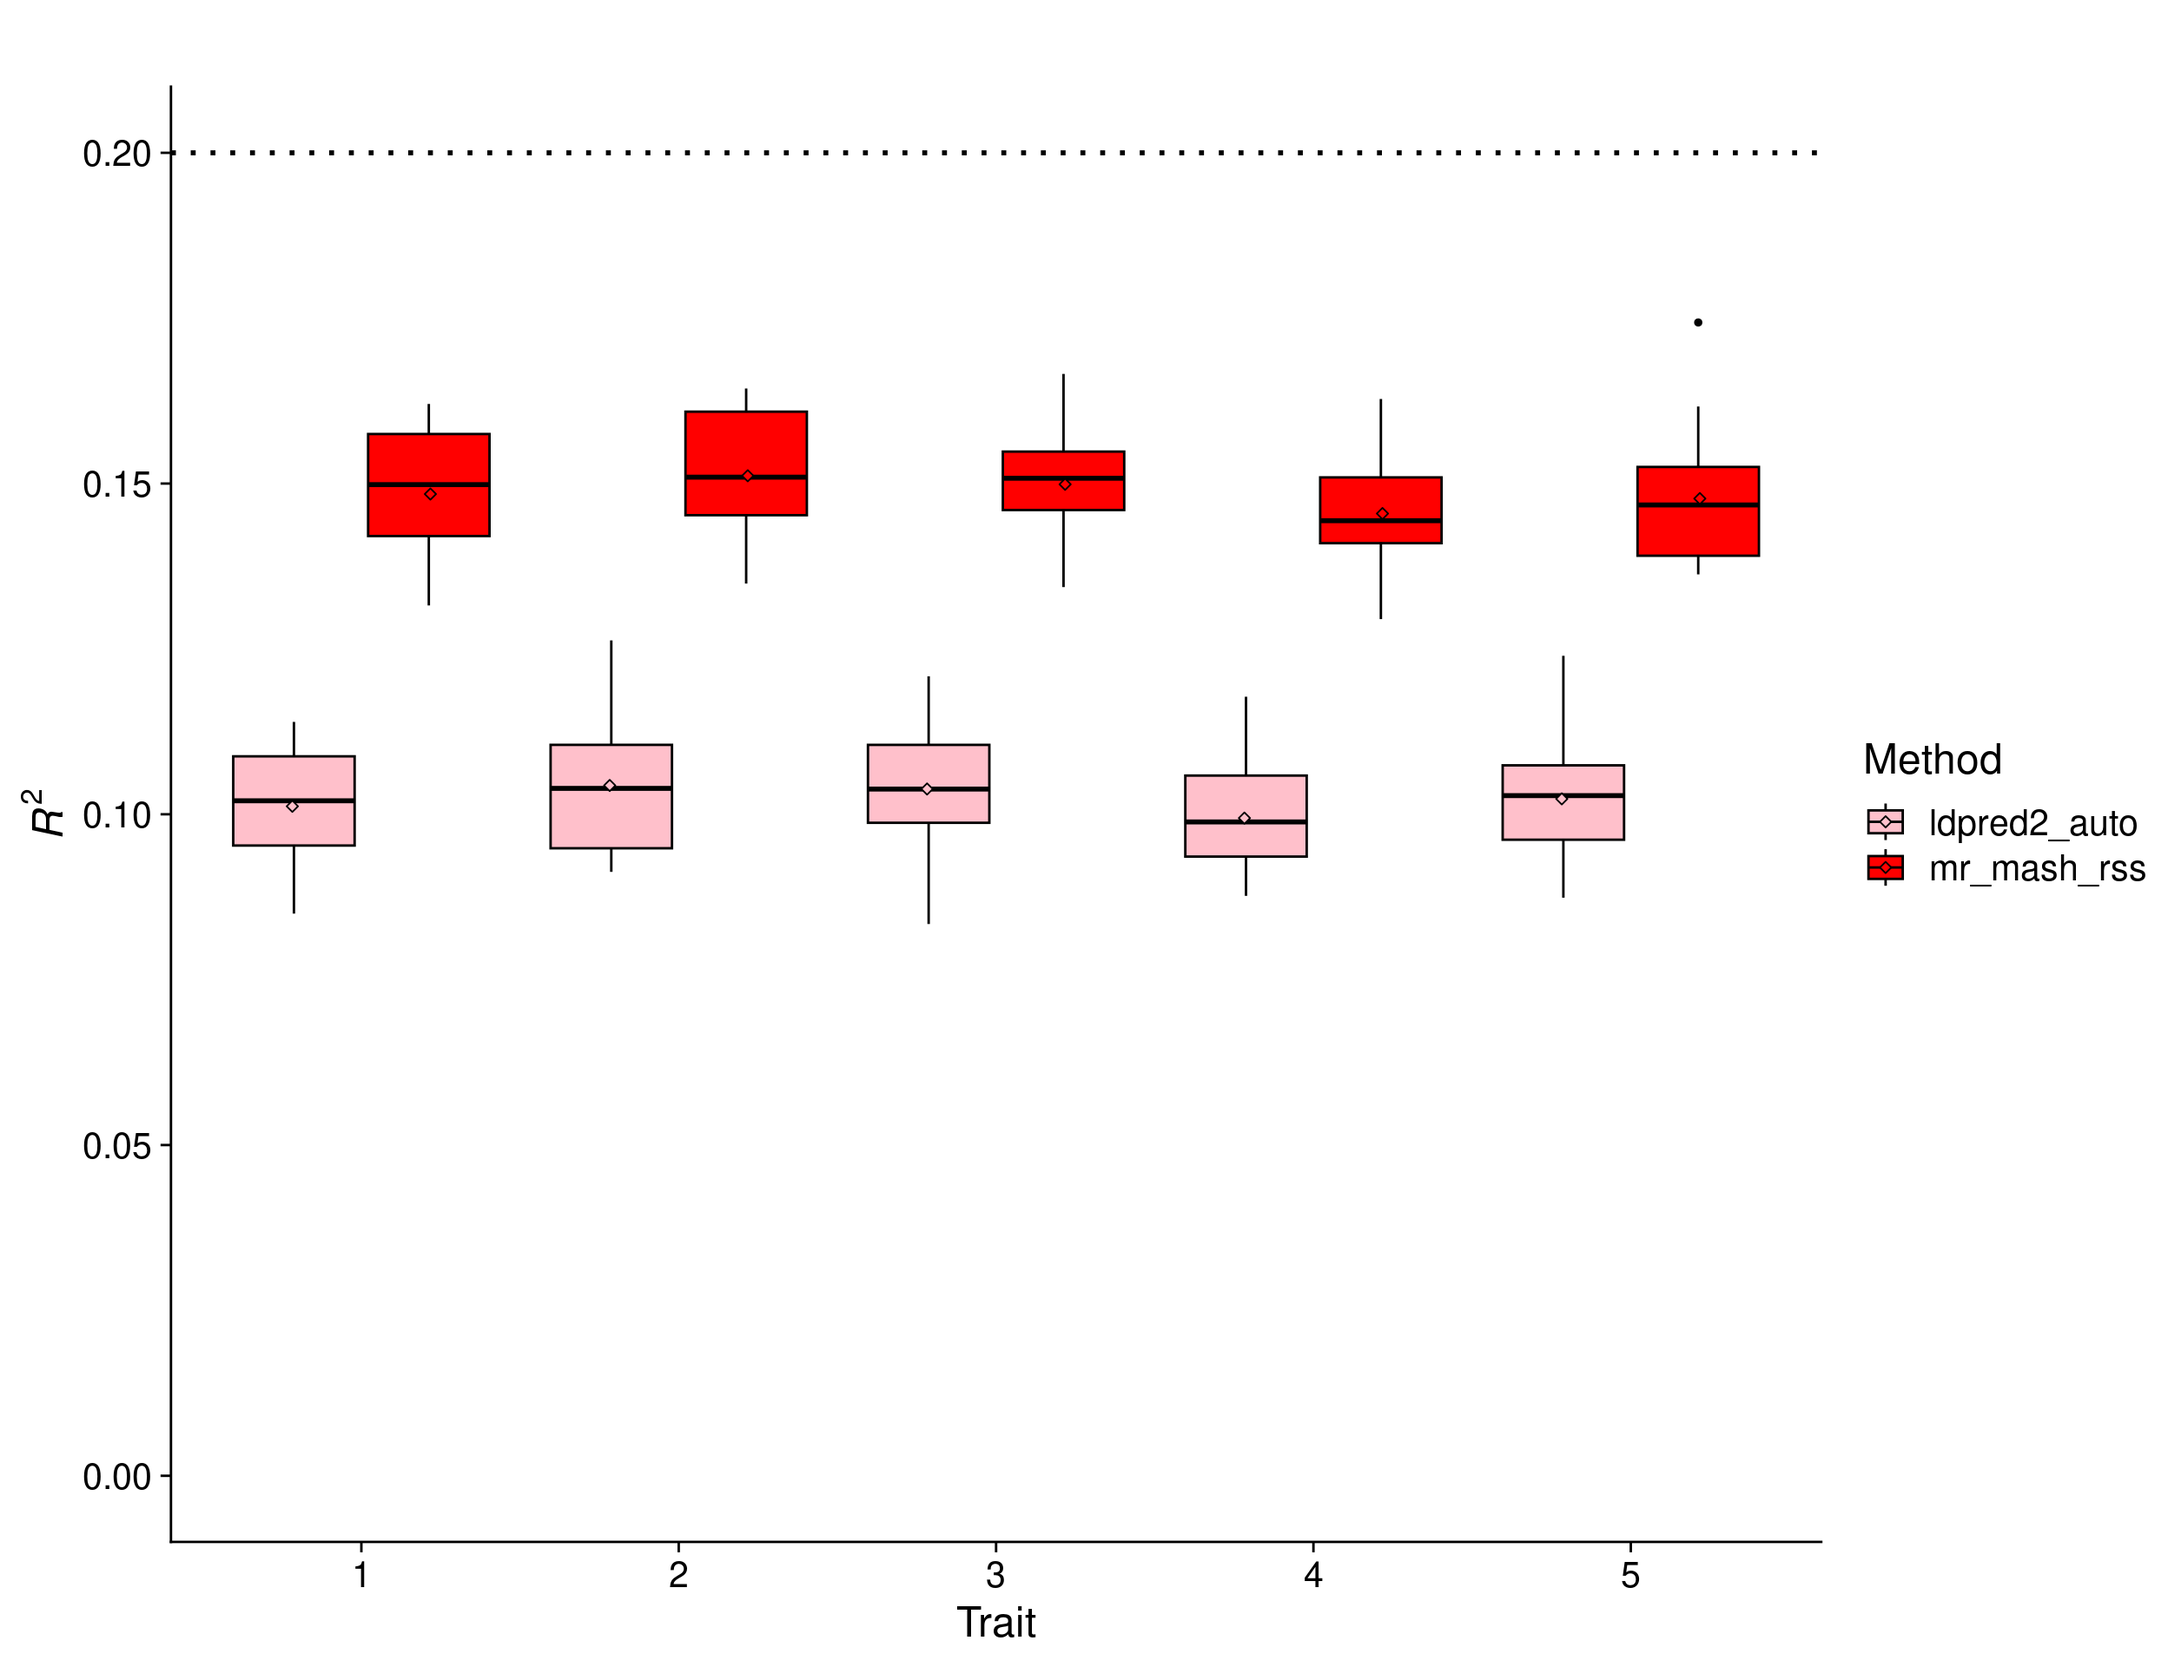
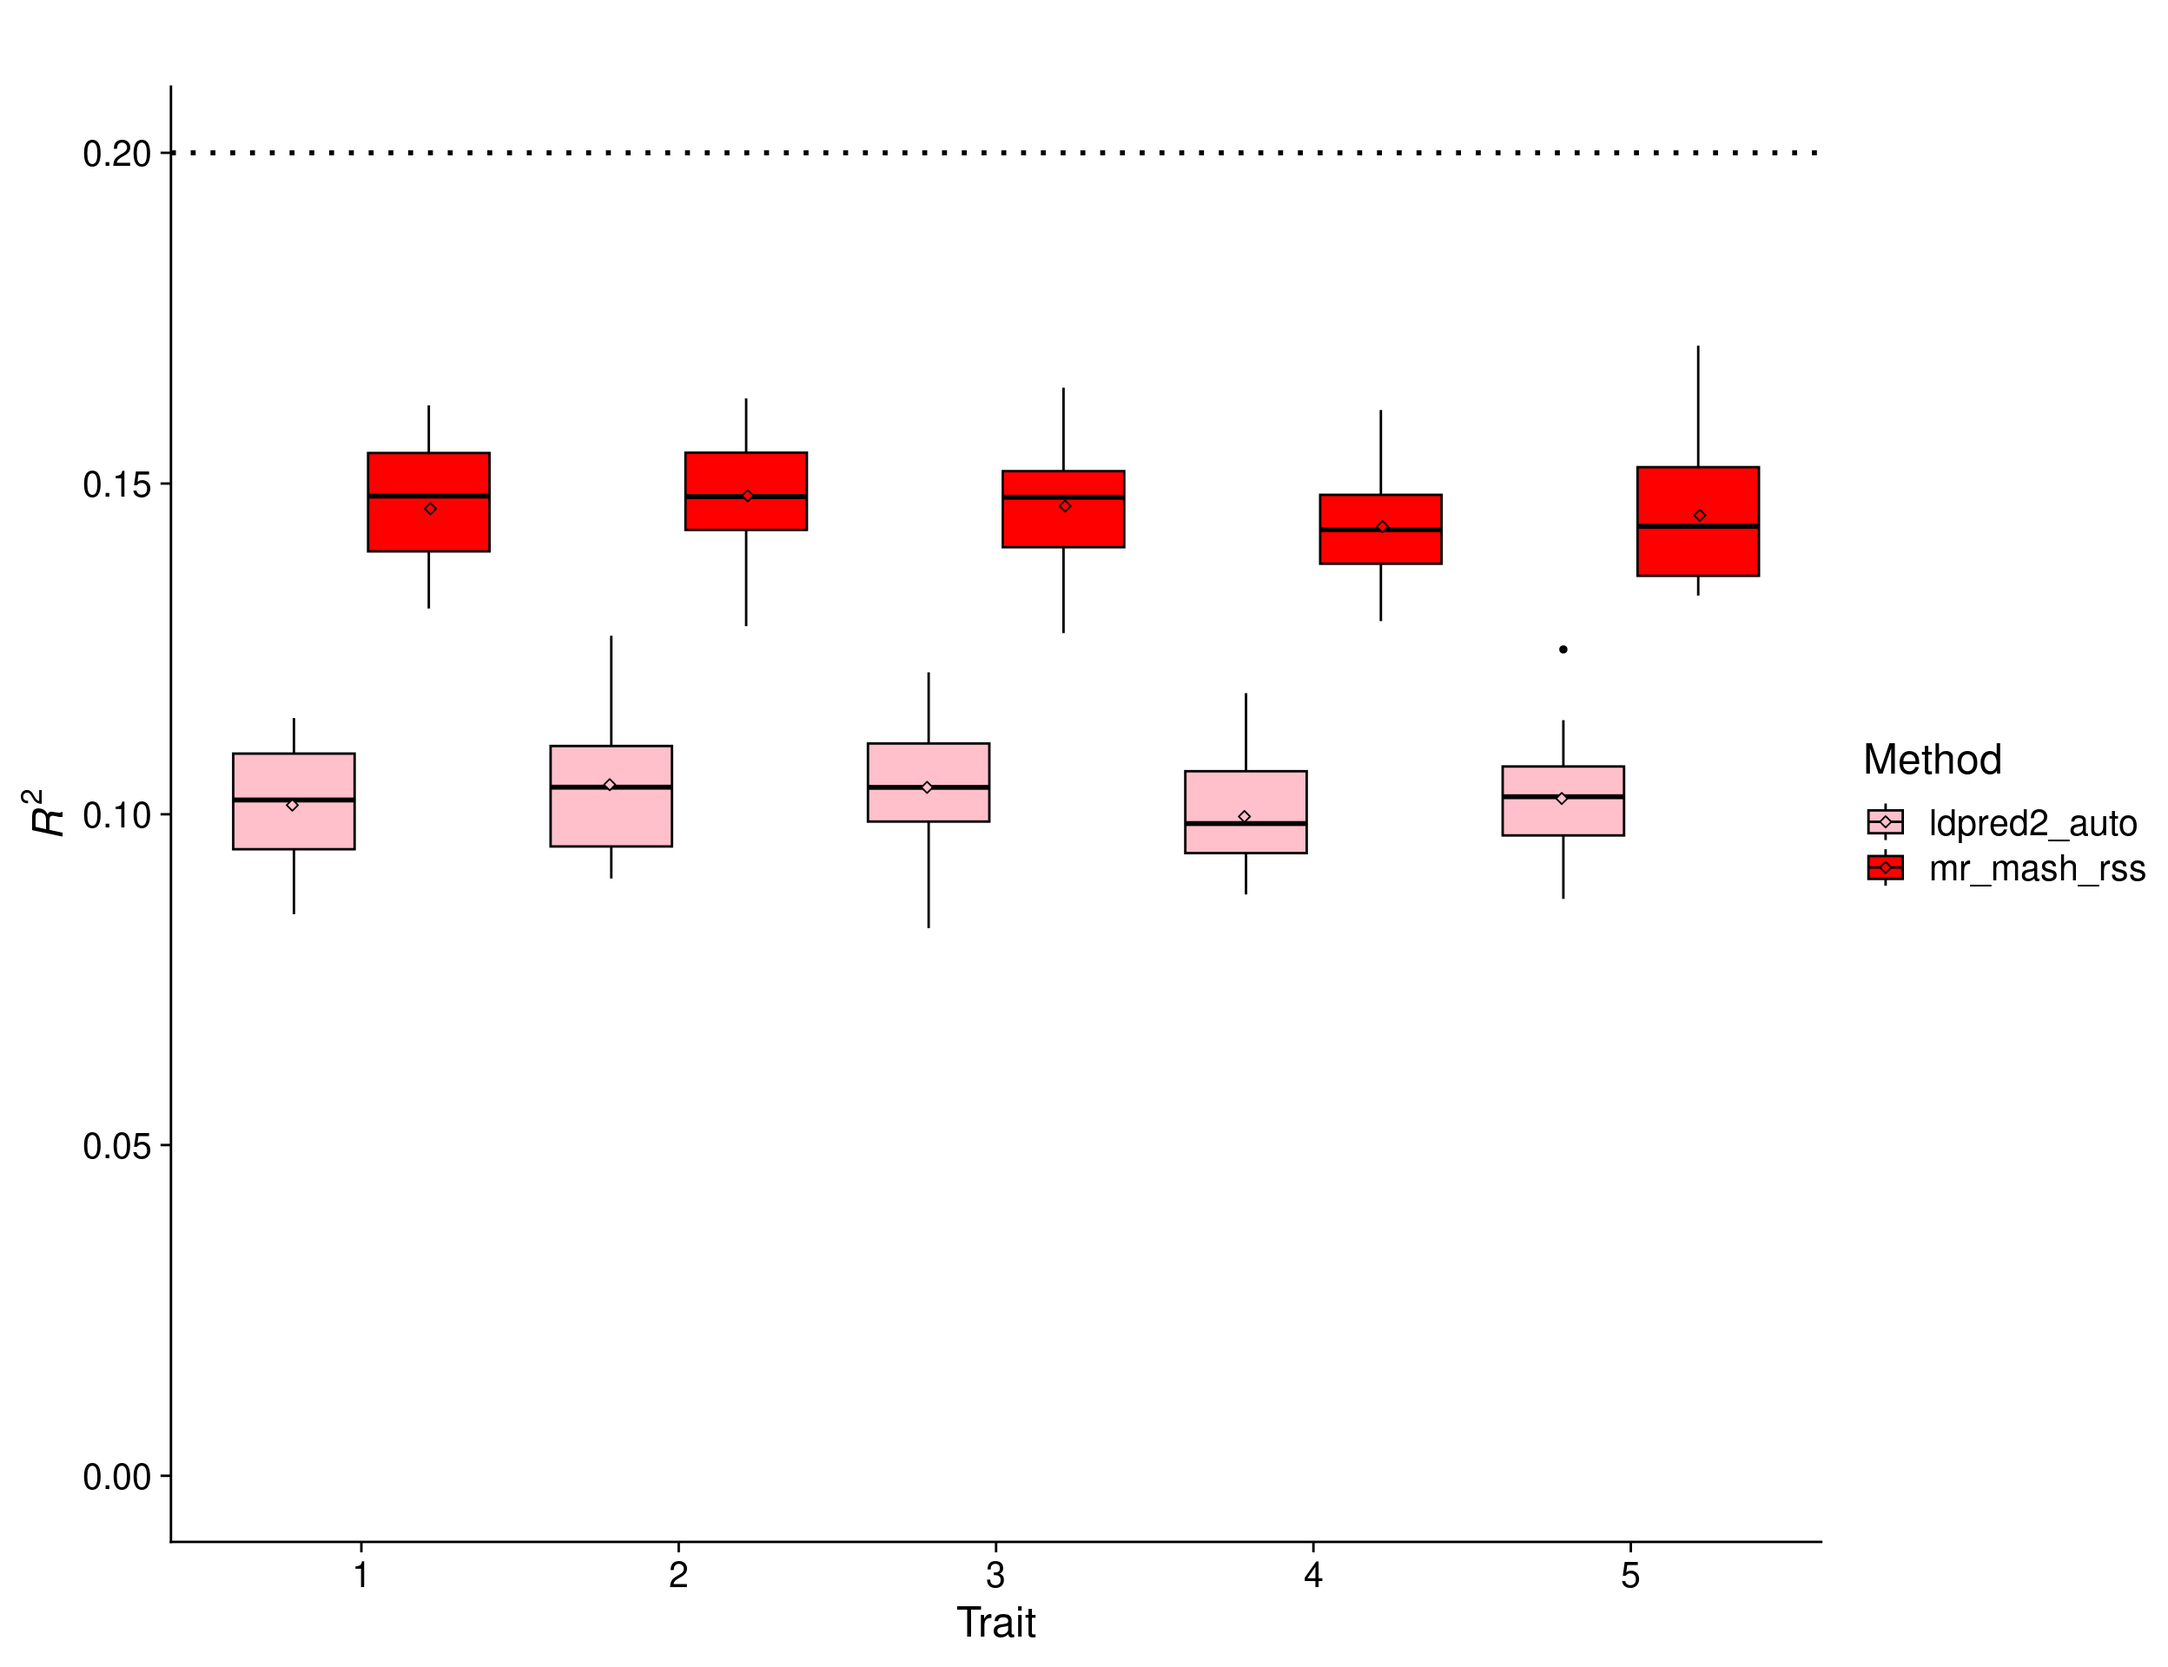
Build site.

diff --git a/docs/ukb_sim_results.html b/docs/ukb_sim_results.html
@@ -11,7 +11,7 @@
 
 <meta name="author" content="Fabio Morgante &amp; Deborah Kunkel" />
 
-<meta name="date" content="2023-10-21" />
+<meta name="date" content="2023-10-26" />
 
 <title>Simulations with UK Biobank genotypes and different effect structure across traits</title>
 
@@ -374,7 +374,7 @@ div.tocify {
 <h1 class="title toc-ignore">Simulations with UK Biobank genotypes and
 different effect structure across traits</h1>
 <h4 class="author">Fabio Morgante &amp; Deborah Kunkel</h4>
-<h4 class="date">October 21, 2023</h4>
+<h4 class="date">October 26, 2023</h4>
 
 </div>
 
@@ -403,7 +403,7 @@ class="glyphicon glyphicon-ok text-success" aria-hidden="true"></span>
 <div class="tab-content">
 <div id="summary" class="tab-pane fade in active">
 <p>
-<strong>Last updated:</strong> 2023-10-21
+<strong>Last updated:</strong> 2023-10-26
 </p>
 <p>
 <strong>Checks:</strong> <span
@@ -534,15 +534,15 @@ project makes it easier to run your code on other machines.</p>
 <div class="panel panel-default">
 <div class="panel-heading">
 <p class="panel-title">
-<a data-toggle="collapse" data-parent="#workflowr-checks" href="#strongRepositoryversionstrongahrefhttpsgithubcommorgantelabmrmashrssanalysistreee0b7f14c1dba635136ac5c40304c624e87f57a11targetblanke0b7f14a">
+<a data-toggle="collapse" data-parent="#workflowr-checks" href="#strongRepositoryversionstrongahrefhttpsgithubcommorgantelabmrmashrssanalysistree63600cd48918ef6a226d680b9194b8fa32bfe463targetblank63600cda">
 <span class="glyphicon glyphicon-ok text-success"
 aria-hidden="true"></span> <strong>Repository version:</strong>
-<a href="https://github.com/morgantelab/mr_mash_rss_analysis/tree/e0b7f14c1dba635136ac5c40304c624e87f57a11" target="_blank">e0b7f14</a>
+<a href="https://github.com/morgantelab/mr_mash_rss_analysis/tree/63600cd48918ef6a226d680b9194b8fa32bfe463" target="_blank">63600cd</a>
 </a>
 </p>
 </div>
 <div
[2 lines of base64/hex data omitted]
 class="panel-collapse collapse">
 <div class="panel-body">
 <p>
@@ -552,7 +552,7 @@ reproducibility.
 </p>
 <p>
 The results in this page were generated with repository version
-<a href="https://github.com/morgantelab/mr_mash_rss_analysis/tree/e0b7f14c1dba635136ac5c40304c624e87f57a11" target="_blank">e0b7f14</a>.
+<a href="https://github.com/morgantelab/mr_mash_rss_analysis/tree/63600cd48918ef6a226d680b9194b8fa32bfe463" target="_blank">63600cd</a>.
 See the <em>Past versions</em> tab to see a history of the changes made
 to the R Markdown and HTML files.
 </p>
@@ -593,7 +593,6 @@ Untracked files:
     Untracked:  scripts/run_fit_kriging_rss_by_chr_and_trait_bc_ukb.sbatch
 
 Unstaged changes:
-    Modified:   code/compute_prediction_accuracy_bc_ukb.R
     Modified:   ukb_sim_snakemake_submitter.sh
 
 </code></pre>
@@ -640,6 +639,40 @@ Message
 </tr>
 </thead>
 <tbody>
+<tr>
+<td>
+Rmd
+</td>
+<td>
+<a href="https://github.com/morgantelab/mr_mash_rss_analysis/blob/63600cd48918ef6a226d680b9194b8fa32bfe463/analysis/ukb_sim_results.Rmd" target="_blank">63600cd</a>
+</td>
+<td>
+fmorgante
+</td>
+<td>
+2023-10-26
+</td>
+<td>
+Update general description and low PVE results
+</td>
+</tr>
+<tr>
+<td>
+html
+</td>
+<td>
+<a href="https://rawcdn.githack.com/morgantelab/mr_mash_rss_analysis/c77ab8f96831d751273d44f0e2d00883f6185106/docs/ukb_sim_results.html" target="_blank">c77ab8f</a>
+</td>
+<td>
+fmorgante
+</td>
+<td>
+2023-10-21
+</td>
+<td>
+Build site.
+</td>
+</tr>
 <tr>
 <td>
 html
@@ -1482,7 +1515,8 @@ below). The genetic effects explain 50% of the total per-trait variance
 (except for two scenario as explained below) – in genetics terminology
 this is called genomic heritability (<span
 class="math inline">\(h_g^2\)</span>). The residuals are uncorrelated
-across traits.</p>
+across traits. Each trait was quantile normalized before all the
+analyses were performed.</p>
 <p>We randomly sampled 5,000 (out of the 105,000) individuals to be the
 test set. The test set was only used to evaluate prediction accuracy.
 All the other steps were carried out on the training set of 100,000
@@ -1494,18 +1528,17 @@ variant, one at a time. Traits and variants were not standardized.</p>
 <ul>
 <li><a
 href="https://academic.oup.com/bioinformatics/article/36/22-23/5424/6039173">LDpred2</a>
-per-chromosome with the auto option, 500 iterations (after 500 burn-in
-iterations), <span class="math inline">\(h^2\)</span> initialized as
-0.5/22 and <span class="math inline">\(p\)</span> initialized using the
-same grid as in the original paper. NB this is a univariate method.</li>
-<li><em>LDpred2</em> genome-wide with the auto option, 500 iterations
-(after 500 burn-in iterations), <span class="math inline">\(h^2\)</span>
-initialized as 0.5/22 (WRONG) and <span class="math inline">\(p\)</span>
-initialized using the same grid as in the original paper. NB this is a
-univariate method.</li>
+per-chromosome with the auto option, 1000 iterations (after 500 burn-in
+iterations), <span class="math inline">\(h^2\)</span> initialized using
+an estimate from LD Score regression (LDSC) and <span
+class="math inline">\(p\)</span> initialized using the same grid as in
+the original paper. NB this is a univariate method.
+<!-- * _LDpred2_ genome-wide with the auto option, 500 iterations (after 500 burn-in iterations), $h^2$  -->
+<!-- initialized as 0.5/22 (WRONG) and $p$ initialized using the same grid as in the original paper. -->
+<!-- NB this is a univariate method. --></li>
 <li><em>mr.mash.rss</em> per-chromosome, with both canonical and
 data-driven covariance matrices computed as described in the <a
-href="https://www.biorxiv.org/content/10.1101/2022.11.22.517471v4.abstract">mr.mash
+href="https://www.biorxiv.org/content/10.1101/2023.04.14.536893v1">mvSuSiE
 paper</a>, updating the (full rank) residual covariance and the mixture
 weights, without standardizing the variables. The residual covariance
 was initialized as in the <a
@@ -1514,13 +1547,10 @@ paper</a> and the mixture weights were initialized as 90% of the weight
 on the null component and 10% of the weight split equally across the
 remaining components. The phenotypic covariance was computed as the
 sample covariance using the individual-level data. NB this is a
-multivariate method.</li>
-<li><a
-href="https://www.nature.com/articles/s41467-019-12653-0">BayesR</a>
-per-chromosome, with 1000 iterations (after 500 burn-in iterations),
-<span class="math inline">\(h^2\)</span> initialized as 0.5/22 and other
-default parameters. NB this is a univariate method. We used the
-implementation in the <em>qgg</em> R package.</li>
+multivariate method.
+<!-- * [BayesR](https://www.nature.com/articles/s41467-019-12653-0) per-chromosome, with 1000 iterations  -->
+<!-- (after 500 burn-in iterations), $h^2$ initialized as 0.5/22 and other default parameters. NB this is  -->
+<!-- a univariate method. We used the implementation in the *qgg* R package. --></li>
 </ul>
 <p>Prediction accuracy was evaluated as the <span
 class="math inline">\(R^2\)</span> of the regression of true phenotypes
@@ -1678,13 +1708,7 @@ methods. In fact, given that the effects are equal across traits and the
 residuals are uncorrelated, a multivariate analysis is roughly
 equivalent to having 5 times as many samples as in an univariate
 analysis. The results show that <em>mr.mash.rss</em> clearly does better
-than both flavors of <em>LDpred2 auto</em>. However, in this simulation
-there does not seem to be much of a difference between <em>LDpred2
-auto</em> per-chromosome and genome-wide. Therefore, we will drop
-<em>LDpred2 auto</em> genome-wide from further analyses since it is more
-computationally intensive. <em>BayesR</em> gives unreasonably low
-prediction accuracy, which hints at issues with the default parameters
-and/or this particular implementation.</p>
+than <em>LDpred2 auto</em>.</p>
 </div>
 <div id="mostly-null-scenario" class="section level2">
 <h2>Mostly null scenario</h2>
@@ -1762,6 +1786,17 @@ Date
 <tbody>
 <tr>
 <td>
+<a href="https://github.com/morgantelab/mr_mash_rss_analysis/blob/c77ab8f96831d751273d44f0e2d00883f6185106/docs/figure/ukb_sim_results.Rmd/mostly null-1.png" target="_blank">c77ab8f</a>
+</td>
+<td>
+fmorgante
+</td>
+<td>
+2023-10-21
+</td>
+</tr>
+<tr>
+<td>
 <a href="https://github.com/morgantelab/mr_mash_rss_analysis/blob/e8a2096ed6bf57d125d0f9a54830833f55a4da4d/docs/figure/ukb_sim_results.Rmd/mostly null-1.png" target="_blank">e8a2096</a>
 </td>
 <td>
@@ -1822,12 +1857,9 @@ fmorgante
 <p>In this scenario, there is no advantage to using multivariate
 methods. In fact, there is potential for multivariate methods to do
 worse than univariate methods because of the large amount of noise
-modeled jointly with the signal. However, the results show that
-<em>mr.mash.rss</em> can learn this structure from the data and,
-reassuringly, performs similarly to <em>LDpred2 auto</em>. Again,
-**BayesR* gives unreasonably low prediction accuracy, which hints at
-issues with the default parameters and/or this particular
-implementation.</p>
+modeled jointly with the signal. The results show that
+<em>mr.mash.rss</em> can learn this structure from the data and performs
+similar to <em>LDpred2 auto</em>, although a little worse.</p>
 </div>
 <div id="shared-in-subgroups-scenario" class="section level2">
 <h2>Shared in subgroups scenario</h2>
@@ -2011,9 +2043,7 @@ does better than <em>LDpred2 auto</em> across all the traits. However,
 the improvement is more evident in traits 1-3, due to the higher effect
 correlation across traits, the larger number of traits with shared
 effects, and the smaller <span class="math inline">\(h^2_g\)</span>
-(harder scenario for univariate methods). Again, <em>BayesR</em> gives
-unreasonably low prediction accuracy, which hints at issues with the
-default parameters and/or this particular implementation.</p>
+(harder scenario for univariate methods).</p>
 </div>
 <div id="equal-effects-scenario-low-pve" class="section level2">
 <h2>Equal effects scenario – low PVE</h2>
@@ -2135,9 +2165,7 @@ signal-to-noise ratio, it is harder for univariate methods to estimate
 effects accurately. Multivariate methods can borrow information across
 traits (if effects are shared) and improve accuracy. The results show
 that <em>mr.mash.rss</em> clearly does better than <em>LDpred2
-auto</em>. Again, <em>BayesR</em> gives unreasonably low prediction
-accuracy, which hints at issues with the default parameters and/or this
-particular implementation.</p>
+auto</em>.</p>
 </div>
 <div id="equal-effects-scenario-more-polygenic" class="section level2">
 <h2>Equal effects scenario – more polygenic</h2>
@@ -2370,12 +2398,7 @@ traits. This is because multivariate methods can borrow information
 across a larger number of traits (if effects are shared) and improve
 accuracy. The results show that <em>mr.mash.rss</em> clearly does better
 than <em>LDpred2 auto</em>, but the improvement compared to the scenario
-with 5 traits is small (<span
-class="math inline">\(mean(\frac{mr.mash.rss R^2}{LDpred2 auto R^2}) =
-1.1157\)</span> vs <span class="math inline">\(mean(\frac{mr.mash.rss
-R^2}{LDpred2 auto R^2}) = 1.1057\)</span>). Again, <em>BayesR</em> gives
-unreasonably low prediction accuracy, which hints at issues with the
-default parameters and/or this particular implementation.</p>
+with 5 traits is small.</p>
 <br>
 <p>
 <button type="button" class="btn btn-default btn-workflowr btn-workflowr-sessioninfo" data-toggle="collapse" data-target="#workflowr-sessioninfo" style="display: block;">
